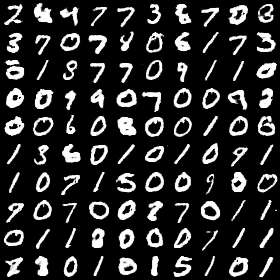
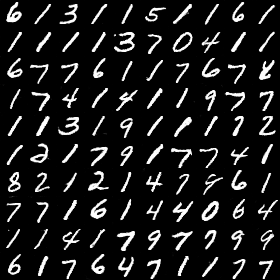
some enhancements

diff --git a/dcgan.py b/dcgan.py
@@ -1,12 +1,12 @@
 from keras.models import Sequential
-from keras.layers import Dense
-from keras.layers import Reshape
-from keras.layers.core import Activation
+from keras.layers import Reshape, AveragePooling2D, Dense, Dropout, Flatten
+from keras.layers.core import Activation, Flatten
 from keras.layers.normalization import BatchNormalization
-from keras.layers.convolutional import UpSampling2D
-from keras.layers.convolutional import Conv2D, MaxPooling2D
-from keras.layers.core import Flatten
-from keras.optimizers import SGD
+from keras.layers.convolutional import Conv2D, Conv2DTranspose
+from keras.layers.advanced_activations import LeakyReLU
+from keras.optimizers import SGD, Adam
+from keras import initializers
+from keras.utils.generic_utils import Progbar
 from keras.datasets import mnist
 import numpy as np
 from PIL import Image
@@ -25,38 +25,44 @@ os.environ['TF_CPP_MIN_LOG_LEVEL']='2'
 
 def generator_model():
     model = Sequential()
-    model.add(Dense(units=1024, input_dim=100))
-    model.add(Activation('tanh'))
-    model.add(Dense(128*7*7))
-    model.add(BatchNormalization())
-    model.add(Activation('tanh'))
-    model.add(Reshape((7, 7, 128), input_shape=(128*7*7,)))
-    model.add(UpSampling2D(size=(2, 2)))
-    model.add(Conv2D(64, (5, 5), padding='same'))
-    model.add(Activation('tanh'))
-    model.add(UpSampling2D(size=(2, 2)))
-    model.add(Conv2D(1, (5, 5), padding='same'))
-    model.add(Activation('tanh'))
-    return model
 
+    model.add(Dense(3 * 3 * 384, input_dim=100, kernel_initializer=initializers.RandomNormal(stddev=0.02)))
+    model.add(BatchNormalization())
+    model.add(LeakyReLU(0.2))
+    model.add(Reshape((3, 3, 384)))
+
+    model.add(Conv2DTranspose(192, 5, strides=1, padding='valid'))
+    model.add(BatchNormalization(axis=-1))
+    model.add(LeakyReLU(0.2))
+
+    model.add(Conv2DTranspose(96, 5, strides=2, padding='same'))
+    model.add(BatchNormalization(axis=-1))
+    model.add(LeakyReLU(0.2))
+
+    model.add(Conv2DTranspose(1, 5, strides=2, padding='same',activation='tanh'))
+    return model
 
 def discriminator_model():
     model = Sequential()
-    model.add(
-            Conv2D(64, (5, 5),
-            padding='same',
-            input_shape=(28, 28, 1))
-            )
-    model.add(Activation('tanh'))
-    model.add(MaxPooling2D(pool_size=(2, 2)))
-    model.add(Conv2D(128, (5, 5)))
-    model.add(Activation('tanh'))
-    model.add(MaxPooling2D(pool_size=(2, 2)))
+
+    model.add(Conv2D(32, (3, 3),padding='same',strides=2,input_shape=(28, 28, 1)))
+    model.add(LeakyReLU(0.2))
+    model.add(Dropout(0.3))
+
+    model.add(Conv2D(64,3,padding='same', strides=1))
+    model.add(LeakyReLU(0.2))
+    model.add(Dropout(0.3))
+
+    model.add(Conv2D(128,3,padding='same', strides=2))
+    model.add(LeakyReLU(0.2))
+    model.add(Dropout(0.3))
+
+    model.add(Conv2D(256,3,padding='same', strides=1))
+    model.add(LeakyReLU(0.2))
+    model.add(Dropout(0.3))
+
     model.add(Flatten())
-    model.add(Dense(1024))
-    model.add(Activation('tanh'))
-    model.add(Dense(1))
-    model.add(Activation('sigmoid'))
+    model.add(Dense(1, activation='sigmoid'))
     return model
 
 
@@ -83,34 +89,62 @@ def combine_images(generated_images):
     return image
 
 
-def plot(x,y1,y2,xlabel,ylabel1,ylabel2,loss_file):
-    plt.figure(num=None, figsize=(16,12), dpi=100, facecolor='w', edgecolor='k')
+def plot(x,y1,y2,xlabel,ylabel,ylabel1,ylabel2,loss_file):
+    plt.figure(num=None, figsize=(8,6), dpi=100, facecolor='w', edgecolor='k')
     plt.plot(x, y1, 'b', label=ylabel1, linewidth=0.7)
     plt.plot(x, y2, 'g', label=ylabel2, linewidth=0.7)
     plt.legend()
     plt.minorticks_on()
     plt.xlabel(xlabel)
-    plt.ylabel(ylabel1)
-    plt.ylabel(ylabel2)
-    #plt.yticks(np.arange(0, 2.5, 0.1))
+    plt.ylabel(ylabel)
     plt.grid(b=True, which='major', color='k', linestyle='-')
     plt.grid(b=True, which='minor', color='0.5', linestyle='--', linewidth=0.5)
     plt.savefig(loss_file)
     plt.close()
 
 def train(BATCH_SIZE):
-    (X_train, y_train), (X_test, y_test) = mnist.load_data()
-    X_train = (X_train.astype(np.float32) - 127.5)/127.5
-    X_train = X_train[:, :, :, None]
-    X_test = X_test[:, :, :, None]
-    # X_train = X_train.reshape((X_train.shape, 1) + X_train.shape[1:])
-    d = discriminator_model()
-    g = generator_model()
 
-    # model summary
+    # saving results to
     model_dir = './models'
     if not os.path.exists(model_dir):
-		os.mkdir(model_dir)		
+        os.mkdir(model_dir)
+    val_dir = './vals'
+    if not os.path.exists(val_dir):
+        os.mkdir(val_dir)
+    log_dir = './logs'
+    if not os.path.exists(log_dir):
+        os.mkdir(log_dir)
+
+    nepoch = 200
+
+    (X_train, y_train), (X_test, y_test) = mnist.load_data()
+
+    # ganhacks 1: normalize inputs
+    X_train = (X_train.astype(np.float32) - 127.5)/127.5
+    X_train = np.expand_dims(X_train, axis=-1)
+
+    lr = 2e-4
+
+    # generator
+    g = generator_model()
+    g_optim = Adam(lr=lr, beta_1=0.5)
+    g.compile(loss='binary_crossentropy', optimizer=g_optim)
+
+    # discriminator
+    d = discriminator_model()
+
+    # gan: g+d
+    gan_optim = Adam(lr=lr, beta_1=0.5)
+    gan = generator_containing_discriminator(g, d)
+    gan.compile(loss='binary_crossentropy', optimizer=gan_optim)
+
+    # discriminator compile
+    d_optim = Adam(lr=lr, beta_1=0.5)
+    d.trainable = True
+    d.compile(loss='binary_crossentropy', optimizer=d_optim)
+
+
+    # model summary
     with open(model_dir + '/discriminator.txt','w') as fh:
     	d.summary(print_fn=lambda x: fh.write(x + '\n'))
 	with open(model_dir + '/generator.txt','w') as fh:
@@ -118,50 +152,53 @@ def train(BATCH_SIZE):
     plot_model(d, to_file=model_dir+'/discriminator.png')
     plot_model(g, to_file=model_dir+'/generator.png')
 
-    val_dir = './val'
-    if not os.path.exists(val_dir):
-		os.mkdir(val_dir)		
-
-    log_dir = './logs'
-    if not os.path.exists(log_dir):
-		os.mkdir(log_dir)	
-
-    d_on_g = generator_containing_discriminator(g, d)
-    d_optim = SGD(lr=0.0005, momentum=0.9, nesterov=True)
-    g_optim = SGD(lr=0.0005, momentum=0.9, nesterov=True)
-    g.compile(loss='binary_crossentropy', optimizer="SGD")
-    d_on_g.compile(loss='binary_crossentropy', optimizer=g_optim)
-    d.trainable = True
-    d.compile(loss='binary_crossentropy', optimizer=d_optim)
 
     d_losses_epoch = []
     g_losses_epoch = []
-    for epoch in range(100):
+    for epoch in range(1,nepoch+1):
+
         d_losses = []
         g_losses = []
-        for index in range(int(X_train.shape[0]/BATCH_SIZE)):
-            noise = np.random.uniform(-1, 1, size=(BATCH_SIZE, 100))
+
+        num_batches = int(X_train.shape[0]/BATCH_SIZE)
+        progress_bar = Progbar(target=num_batches)
+
+        for index in range(num_batches):
+
+            # ganhacks 3: sample from Gaussian
+            noise = 0.5 * np.random.normal(0, 1, size=[BATCH_SIZE, 100])
             image_batch = X_train[index*BATCH_SIZE:(index+1)*BATCH_SIZE]
+
+            # generage fake mnist images
             generated_images = g.predict(noise, verbose=0)
+
+            # train discriminator
             X = np.concatenate((image_batch, generated_images))
-            y = [1] * BATCH_SIZE + [0] * BATCH_SIZE
-            d_loss = d.train_on_batch(X, y)
-            noise = np.random.uniform(-1, 1, (BATCH_SIZE, 100))
+            yD = [0.9] * BATCH_SIZE + [0.] * BATCH_SIZE          # hard label
+            # yD += 0.05 * np.random.normal(size=(2*BATCH_SIZE,))
+            d_loss = d.train_on_batch(X, yD)
+
+            # train generator
+            noise = 0.5 * np.random.normal(0, 1, size=[BATCH_SIZE, 100])
             d.trainable = False
-            g_loss = d_on_g.train_on_batch(noise, [1] * BATCH_SIZE)
+            yG = [1.] * BATCH_SIZE
+            # yG += 0.05 * np.random.normal(size=(BATCH_SIZE,))
+            g_loss = gan.train_on_batch(noise, yG)
             d.trainable = True
 
             d_losses.append(d_loss)
             g_losses.append(g_loss)
 
+            progress_bar.update(index + 1)
+
         d_losses_epoch.append(np.mean(d_losses))
         g_losses_epoch.append(np.mean(g_losses))
-        print("epoch %03d) d_loss : %f / g_loss : %f" % (epoch, d_losses_epoch[-1], g_losses_epoch[-1]))
-        
+        print("Epoch {:03d}/{:03d} - d_loss: {} -  g_loss: {}".format(epoch, nepoch, d_losses_epoch[-1], g_losses_epoch[-1]))
+
         # plot losses
         loss_file_name = log_dir + '/epoch-{:03d}.png'.format(epoch)
-        plot([x+1 for x in range(epoch+1)],d_losses_epoch,g_losses_epoch,
-        	'epoch','discriminator','generator',loss_file_name)
+        plot([x for x in range(1,epoch+1)],d_losses_epoch,g_losses_epoch,
+        	'epoch','loss','discriminator','generator',loss_file_name)
 
         # save weights
         g.save_weights(model_dir+'/generator.h5', True)
@@ -175,13 +212,13 @@ def train(BATCH_SIZE):
 
 
 def generate(BATCH_SIZE, nice=False):
-    g = generator_model()
-    g.compile(loss='binary_crossentropy', optimizer="SGD")
     model_dir = './models'
+    g = generator_model()
+    g.compile(loss='binary_crossentropy', optimizer="Adam")
     g.load_weights(model_dir+'/generator.h5')
     if nice:
         d = discriminator_model()
-        d.compile(loss='binary_crossentropy', optimizer="SGD")
+        d.compile(loss='binary_crossentropy', optimizer="Adam")
         d.load_weights(model_dir+'/discriminator.h5')
         noise = np.random.uniform(-1, 1, (BATCH_SIZE*20, 100))
         generated_images = g.predict(noise, verbose=1)
